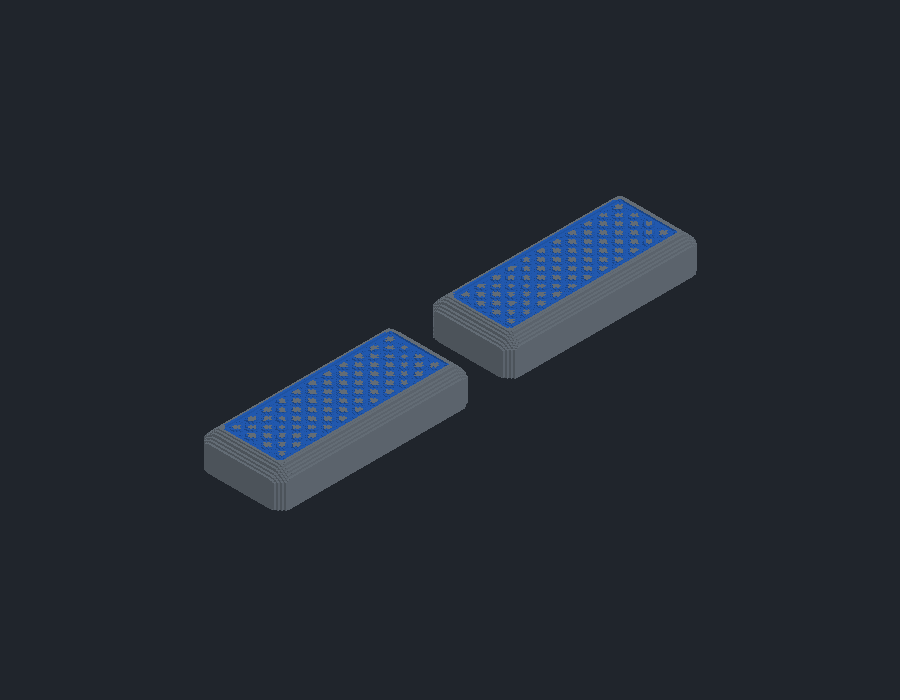
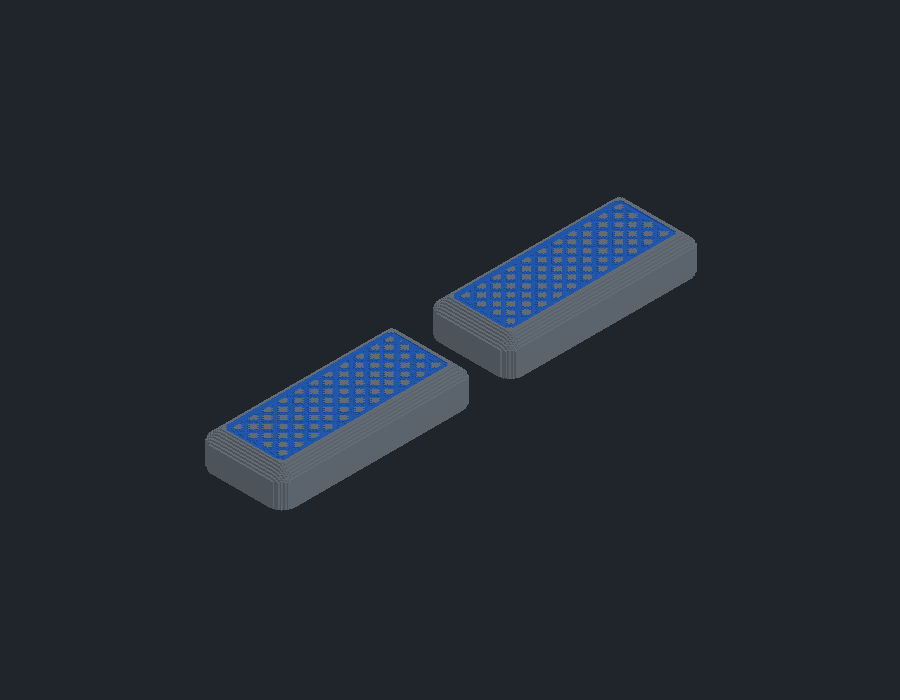
jobs/ingot-slider: replan.sh (one part re-planned and verified in ~4 min), first/last programs made by cam.py
Programs unchanged (byte-identical). Needs rCAD PRs #165 / #166.

Changed region(s): [[0.4667, 0.27, 0.7467, 0.51], [0.2178, 0.48, 0.4978, 0.69]]

diff --git a/jobs/ingot-slider/cam.py b/jobs/ingot-slider/cam.py
@@ -90,8 +90,8 @@ def out(c, stem, only=None):
     """Simulate, render and post setup c; `only`: for a job's lead, just these of its setups (op 1 alone)."""
     k = {"stations": only} if only else {}
     return [{"tool": "cam_info", "args": {"cam": c}},
-            {"tool": "simulate_cam", "args": {"cam": c, "path": f"{stem}-sim.png", "resolution": 900, **k}},
-            {"tool": "simulate_cam", "args": {"cam": c, "path": f"{stem}-sim-top.png", "view": "top", "resolution": 900, **k}},
+            {"tool": "simulate_cam", "args": {"cam": c, "path": f"{stem}-sim.png", "resolution": 500, **k}},
+            {"tool": "simulate_cam", "args": {"cam": c, "path": f"{stem}-sim-top.png", "view": "top", "resolution": 500, **k}},
             {"tool": "render_cam", "args": {"cam": c, "path": f"{stem}-paths.png"}},
             {"tool": "export_gcode", "args": {"cam": c, "path": f"{stem}.nc", **k}},
             {"tool": "export_setup_sheet", "args": {"cam": c, "path": f"{stem}.html", **k}},
@@ -100,10 +100,19 @@ def out(c, stem, only=None):
 
 def cycle(c, stem):
     """The whole job c leads: both stations in one program, simulation, sheet and playback."""
-    return [{"tool": "simulate_cam", "args": {"cam": c, "path": f"{stem}-sim.png", "resolution": 1200}},
+    return [{"tool": "simulate_cam", "args": {"cam": c, "path": f"{stem}-sim.png", "resolution": 500}},
             {"tool": "export_gcode", "args": {"cam": c, "path": f"{stem}.nc"}},
             {"tool": "export_setup_sheet", "args": {"cam": c, "path": f"{stem}.html"}},
             {"tool": "export_cam_simulation", "args": {"cam": c, "path": f"{stem}-sim.html", "resolution": 700}}]
+
+
+def first_last(c, stem, first, last):
+    """The batch's first program (op 1 alone) and last (op 2 and what follows it), posted from job c with stations."""
+    S = []
+    for which, st in (("first", first), ("last", last)):
+        S += [{"tool": "export_gcode", "args": {"cam": c, "stations": st, "path": f"{stem}-{which}.nc"}},
+              {"tool": "export_setup_sheet", "args": {"cam": c, "stations": st, "path": f"{stem}-{which}.html"}}]
+    return S
 
 
 def setup(name, studio, stock=None, follows=None, orient="top", origin="part_bottom_center", station_x=0.0, fixtures=(), z=LEDGE_Z,
@@ -169,7 +178,7 @@ S += tools(1, AL) + probe(1, 3, 1.5) + find_bores(1, 1.0) + [
     op(1, "deburr", "Edge break 0.3: channel edges, floor ends, pocket rims", tool=1, chamfer=0.3, tip_offset=0.7,
        edges=[[s * 10.0, cy, BASE_T] for s in (1, -1) for cy in (-26.5, 26.5)] + [[0, cy + s * 22.5, 6.0] for s in (1, -1) for cy in (-26.5, 26.5)]
        + [[4.025, cy + m, 6.0] for m in (-15, 0, 15) for cy in (-26.5, 26.5)]),
-] + out(1, "base-op2") + cycle(0, "base-cycle")
+] + out(1, "base-op2") + cycle(0, "base-cycle") + first_last(0, "base", ["Base op1 bottom"], ["Base op2 top"])
 
 # ======================= C360 sliders =======================
 W, H = BAR_BR
@@ -209,7 +218,7 @@ S += tools(3, BR) + probe(3, 3, 1.5) + find_bores(3, 1.5) + [
 S += [setup("Slider op2 engrave", 4, follows="Slider op2 top", z=LEDGE_Z - FACE_BR, station_x=FIXED_R + SW / 2, fixtures=jaws(SW, -1),
             model="DMC2-twostation-slider", wcs=2)]
 S += [tools(4, BR)[0],
-      op(4, "trace", "Engrave the crosshatch 0.4 deep (chamfer mill tip)", tool=1, sketches=[9, 10], depth=0.4, stepdown=0.4)] + out(4, "slider-engrave") + cycle(2, "slider-cycle")
+      op(4, "trace", "Engrave the crosshatch 0.4 deep (chamfer mill tip)", tool=1, sketches=[9, 10], depth=0.4, stepdown=0.4)] + out(4, "slider-engrave") + cycle(2, "slider-cycle") + first_last(2, "slider", ["Slider op1 bottom"], ["Slider op2 top", "Slider op2 engrave"])
 S += [{"tool": "save_document", "args": {"path": "slider-cam.json"}}]
 # toolpaths are made once per setup, by cam_info at its end, not again after every operation added
 for st in S:

diff --git a/jobs/ingot-slider/RUN.md b/jobs/ingot-slider/RUN.md
@@ -270,9 +270,11 @@ Notes on the checks:
   required. Listen on the first part.
 - **Depth at 9k:** the base op 1 rough is two levels of 3.75 (7.5 in all). The guidelines prefer 5–7 per level,
   and one 7.5 level would be over 7.
-- **How long a re-plan takes now:** rCAD branch `cam-build-cache` caches each setup's toolpaths between calls, and
-  `cam.py` adds operations with `build: false`. The whole slider re-run (op 1, op 2, the engraving and the cycle)
-  took 5.0 min, down from about 30. `verify_gcode` on all 7 files took 3.6 min, and the rcnc simulator 7 s.
+- **How long a re-plan takes now:** `./replan.sh slider` (or `base`, `all`) re-plans one part: CAM, the first
+  and last programs, post-processing and `verify_gcode` on that part's programs, in two parallel processes. It
+  needs rCAD PRs #165 and #166 (build cache, shared simulation). A shim-only change took **226 s end to end**
+  (CAM 119 s, verify 89 s), and the programs came out byte-identical. Before those PRs it took about 35 min. The rcnc
+  simulator then takes about 2 s per program.
 - **verify_gcode on every final file** (`verify.json`, after pauses, dwells and the guard line): all 7 ok, 0
   problems, stamps match the setups. The cycles were read station by station and simulated together on the
   machine. As a check, a cycle with one Z changed to dig into station 2 was caught as a gouge.
